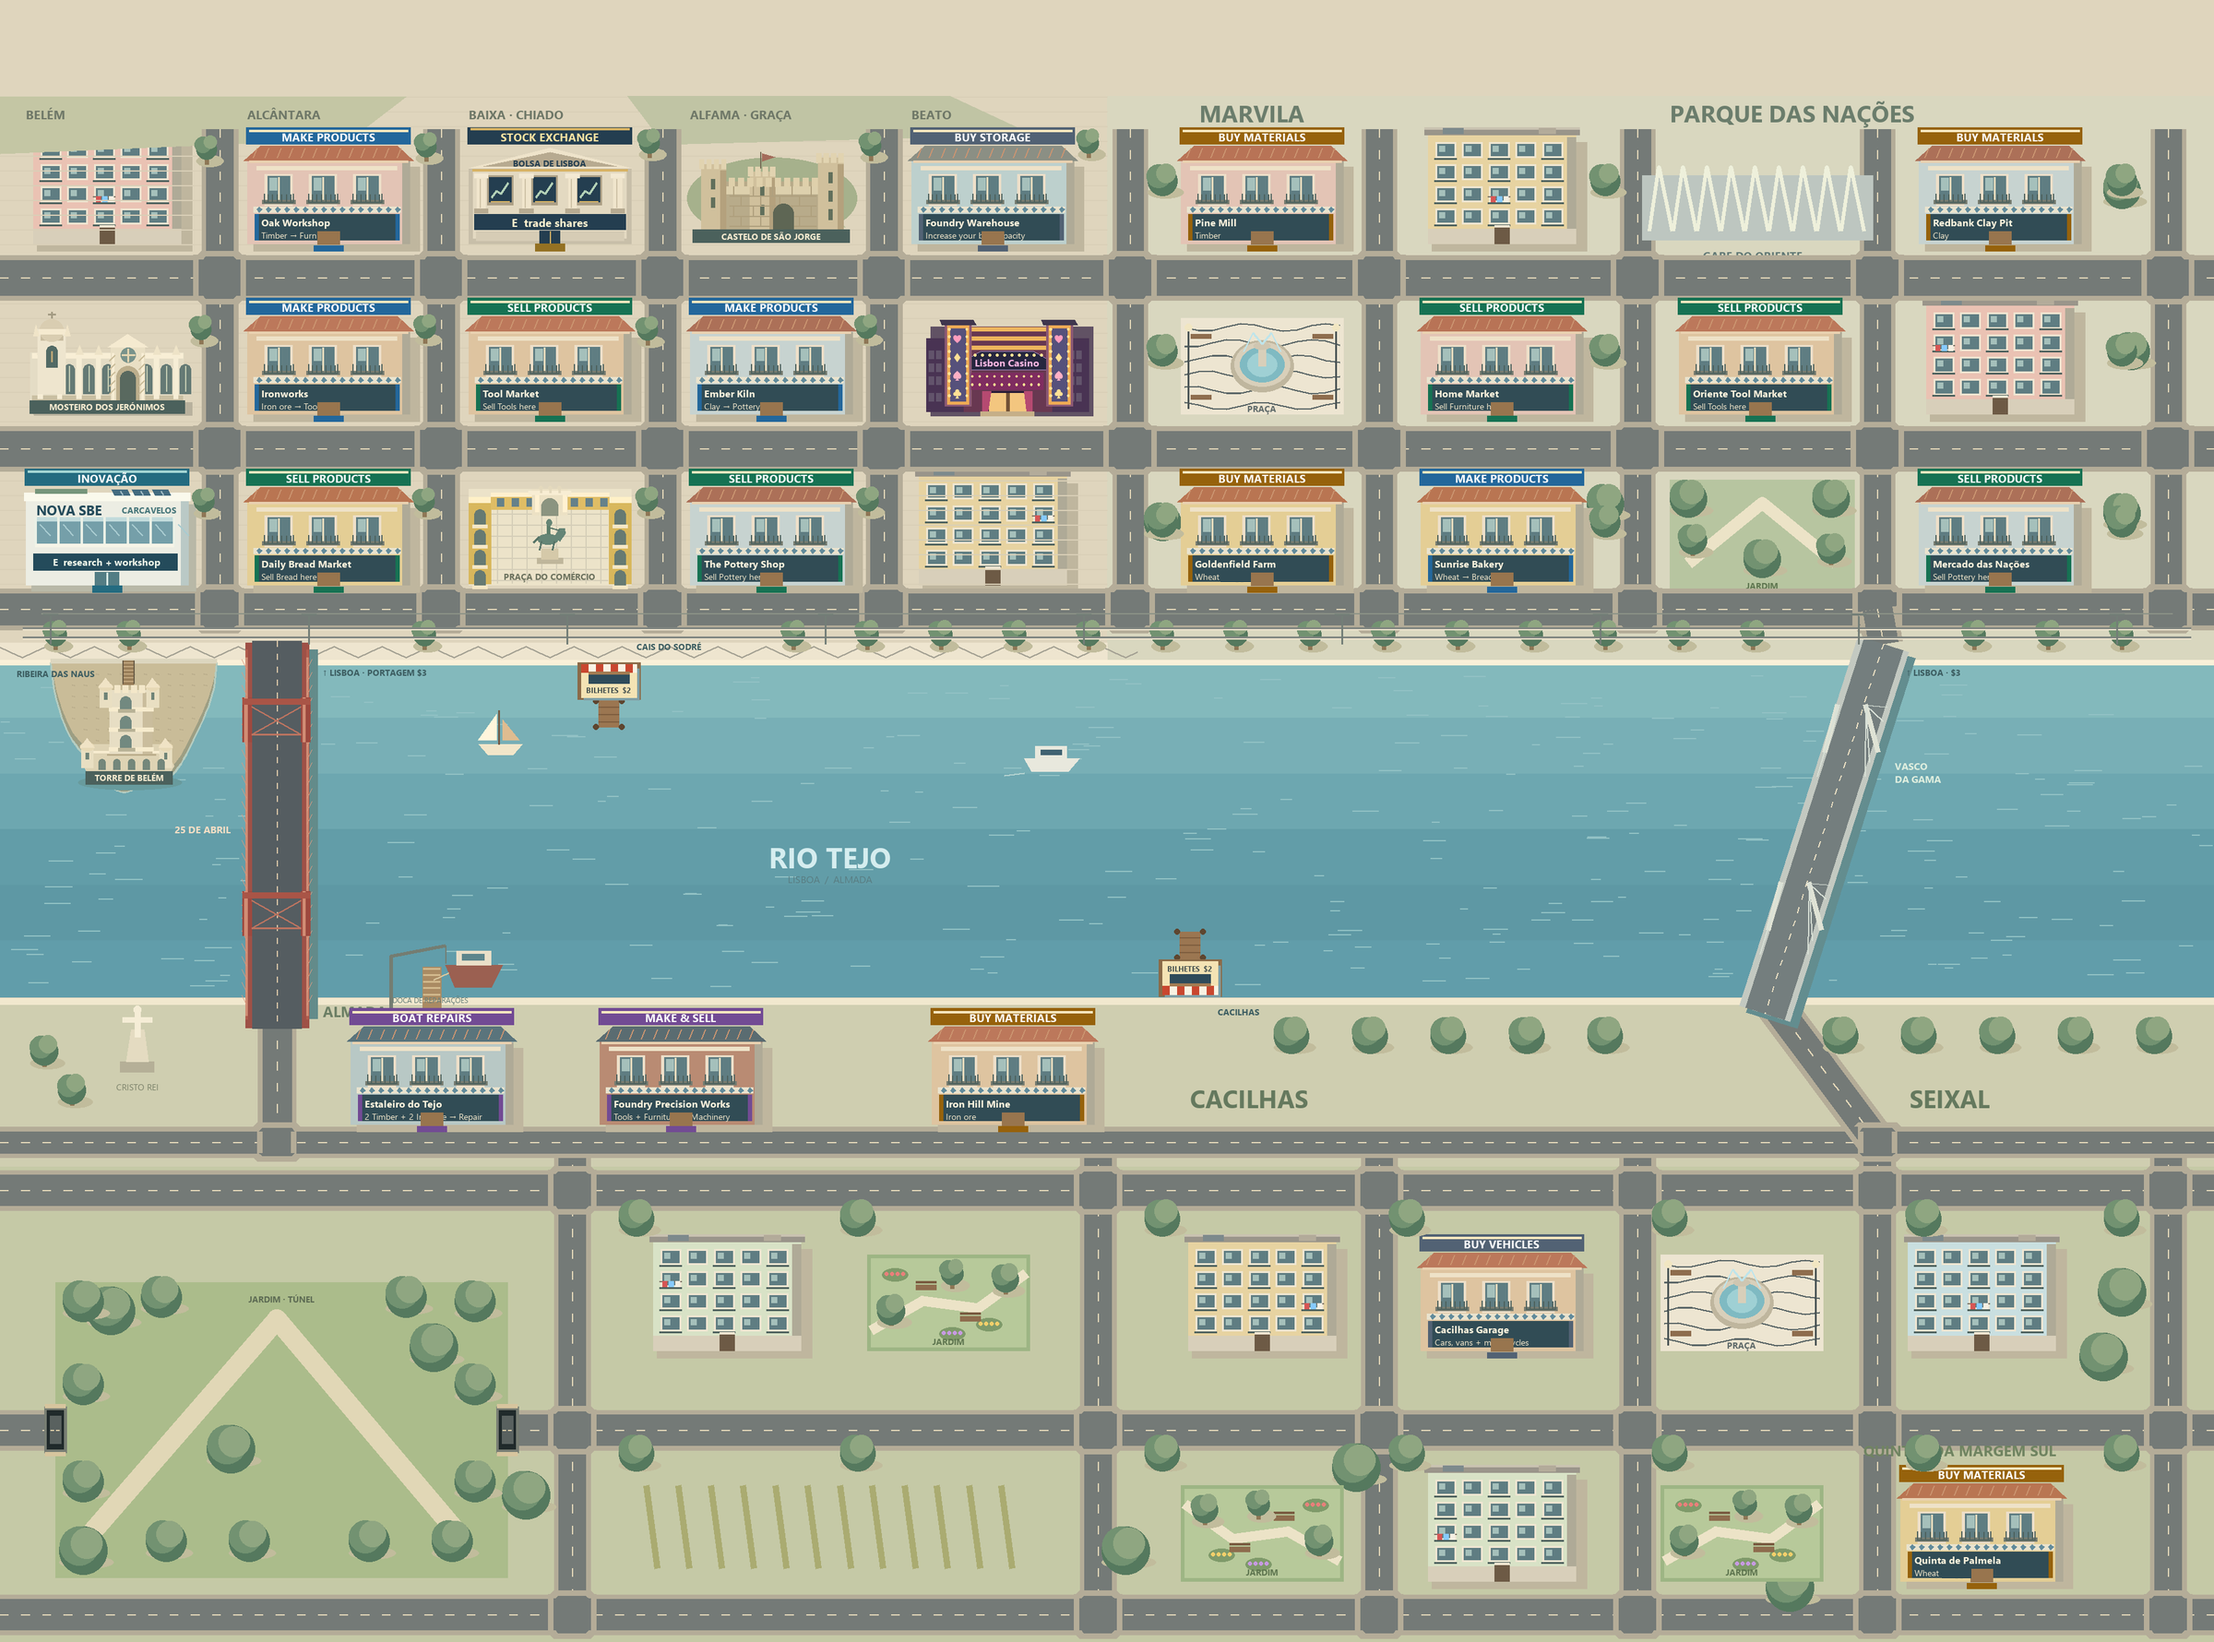
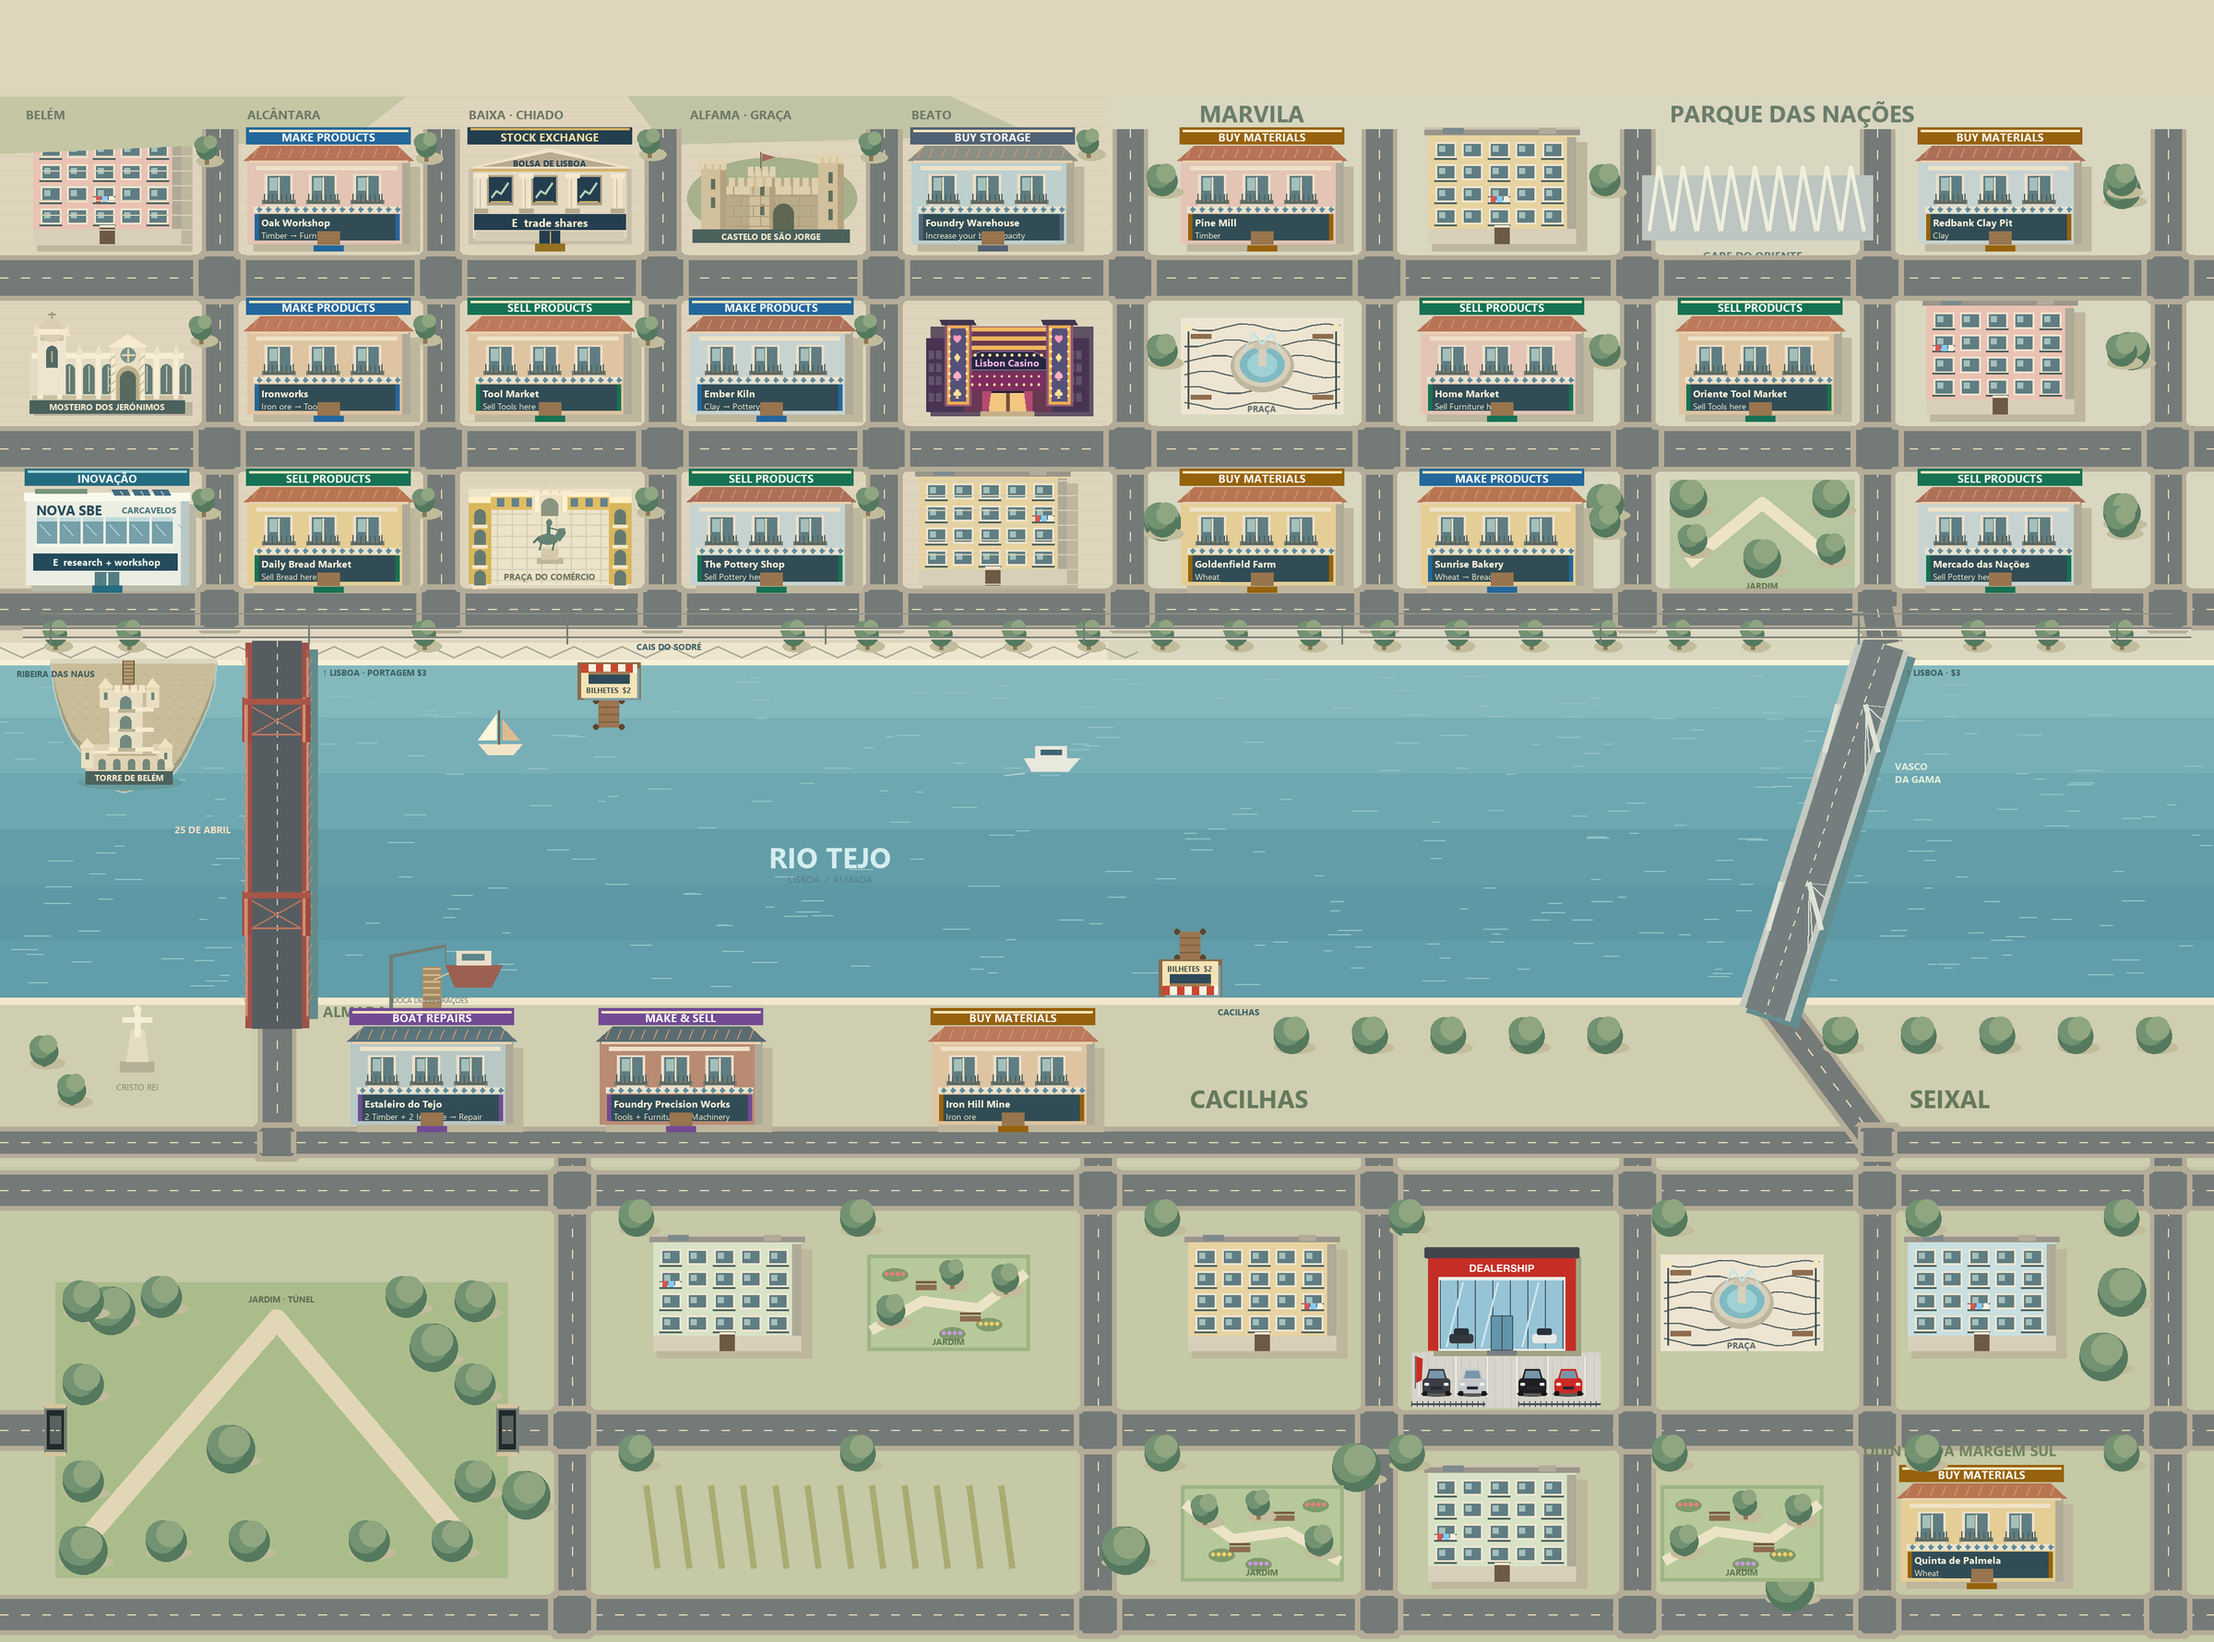
Cacilhas Dealership: a modern showroom with cars on the forecourt, enterable by car
- Cacilhas Garage is now Cacilhas Dealership. The map shows a glass showroom with a red
  frame and a DEALERSHIP sign, and four example cars parked on the forecourt down to the
  road, with an aisle to the door, a low fence and a flag (day and night versions).
- Drivers stay on the road, so the dealership's door reaches across the forecourt: on the
  road lane in front of it, E opens the dealership. Walkers still use the door.
- The Basics slide walks along the road and up the aisle to the new building.

Changed region(s): [[0.625, 0.7416, 0.7188, 0.8652]]

diff --git a/tests/test_buildings.py b/tests/test_buildings.py
@@ -208,7 +208,7 @@ def test_basics_can_be_replayed_from_the_start_menu_and_every_slide_exists(monke
 def test_closed_buildings_cannot_be_entered_and_are_not_destinations(monkeypatch):
     from browser_game import CLOSED_SITES, OPEN_SITES, street_event
     assert CLOSED_SITES == {"Motorworks Garage", "Armazém do Seixal", "Pastéis de Belém"}
-    assert [site.name for site in OPEN_SITES if site.role == "GARAGE"] == ["Cacilhas Garage"]
+    assert [site.name for site in OPEN_SITES if site.role == "GARAGE"] == ["Cacilhas Dealership"]
     assert [site.name for site in OPEN_SITES if site.role == "WAREHOUSE"] == ["Foundry Warehouse"]
     town = Town()
     garage = next(site for site in SITES if site.name == "Motorworks Garage")
@@ -217,7 +217,7 @@ def test_closed_buildings_cannot_be_entered_and_are_not_destinations(monkeypatch
     assert "apartments" in town.message and town.cash == 60
     app = new_app(monkeypatch)
     options = set(app.selectbox[0].options)
-    assert not CLOSED_SITES & options and {"Cacilhas Garage", "Foundry Warehouse"} <= options
+    assert not CLOSED_SITES & options and {"Cacilhas Dealership", "Foundry Warehouse"} <= options
 
 
 def test_warehouse_has_a_scene_and_the_farm_sells_only_wheat():
@@ -304,7 +304,7 @@ def test_building_hints_and_no_hints_once_every_route_is_learned():
     from browser_game import MONASTERY, next_move
     town = Town()
     assert "1 (red)" in next_move(town, "Foundry Casino")["text"]
-    assert "1–4" in next_move(town, "Cacilhas Garage")["text"]
+    assert "1–4" in next_move(town, "Cacilhas Dealership")["text"]
     assert "12 storage slots" in next_move(town, "Foundry Warehouse")["text"]
     assert "casino luck" in next_move(town, MONASTERY)["text"]
     town.total_sold = [1, 1, 1, 1]
@@ -395,7 +395,7 @@ def test_garage_sends_one_card_per_vehicle_with_its_status(monkeypatch):
     app = new_app(monkeypatch)
     town = app.session_state.town
     town.cash, town.owned_vehicles = 300, ["motorcycle"]
-    garage = next(site for site in SITES if site.name == "Cacilhas Garage")
+    garage = next(site for site in SITES if site.name == "Cacilhas Dealership")
     town.x, town.y = entrance(garage)
     app.session_state.inside = garage.name
     app.run()
@@ -405,3 +405,19 @@ def test_garage_sends_one_card_per_vehicle_with_its_status(monkeypatch):
     assert [card["affordable"] for card in cards] == [True, True, False, False]
     assert cards[1]["trunk"] == 48 and cards[1]["cargo"] == 60
     assert streamlit_interior(app)["keys"] == [["1–4", "Choose a vehicle"], ["escape", "Leave"]]
+
+
+def test_drivers_enter_the_dealership_from_the_road_in_front():
+    from browser_game import building_at, street_event
+    dealer = next(site for site in SITES if site.name == "Cacilhas Dealership")
+    door_x, _ = dealer.door
+    driver = Town()
+    driver.vehicle = "car"
+    driver.x, driver.y = door_x + 20, 1550  # On the road lane in front of the forecourt
+    assert building_at(driver) == "Cacilhas Dealership"
+    assert street_event(driver, {"dx": 0, "dy": 0, "seconds": 0, "action": "interact"}) == "Cacilhas Dealership"
+    driver.x = door_x + 90  # Further along the road: not in front of it any more
+    assert building_at(driver) is None
+    walker = Town()
+    walker.x, walker.y = door_x, 1550  # On foot, use the door itself
+    assert building_at(walker) is None

diff --git a/browser_game.py b/browser_game.py
@@ -104,7 +104,8 @@ STREET_LIFE = street_life()
 # ----- Buildings: what is at the door, which illustrated scene to show and what the vendor says -----
 
 MONASTERY = "Mosteiro dos Jerónimos"
-# Closed to keep the game simple: the only garage is in Cacilhas (so the first vehicle needs a ferry
+DRIVE_IN = 110  # How far below its door a driver can still enter the dealership (forecourt + road lane)
+# Closed to keep the game simple: the only car dealership is in Cacilhas (so the first vehicle needs a ferry
 # ride), one warehouse is enough, and the eggs / pastéis side chain is gone. The engine keeps them for
 # old saves; on the map their plots show apartment blocks.
 CLOSED_SITES = frozenset({"Motorworks Garage", "Armazém do Seixal", "Pastéis de Belém"})
@@ -126,6 +127,13 @@ def building_at(town):
     site = town.nearby()
     if site:
         return None if site.name in CLOSED_SITES else site.name
+    if town.vehicle:
+        # Drivers stay on the road, so the dealership's door reaches across its forecourt to the
+        # road in front of it.
+        for dealer in OPEN_SITES:
+            door_x, door_y = dealer.door
+            if dealer.role == "GARAGE" and abs(town.x - door_x) <= 60 and door_y < town.y <= door_y + DRIVE_IN:
+                return dealer.name
     left, _, right, bottom = LANDMARKS[0].bounds
     if math.hypot(town.x-(left+right)/2, town.y-(bottom+16)) <= 40:
         return MONASTERY

diff --git a/tests/test_browser_game.py b/tests/test_browser_game.py
@@ -72,7 +72,7 @@ def test_browser_trade_loop_rejection_restart_and_session_isolation(tmp_path, mo
     choose_place(app, "Daily Bread Market")
     click(app, "Sell carried goods")
     assert app.metric[0].value == "$100"
-    choose_place(app, "Cacilhas Garage")  # The only garage is across the Tejo
+    choose_place(app, "Cacilhas Dealership")  # The only garage is across the Tejo
     click(app, "Buy Motorcycle · $120 · +6 slots")
     assert app.metric[0].value == "$100"
     assert app.metric[1].value == "0 / 12"
@@ -80,7 +80,7 @@ def test_browser_trade_loop_rejection_restart_and_session_isolation(tmp_path, mo
     reloaded = AppTest.from_file("../streamlit_app.py", default_timeout=15).run()
     assert reloaded.metric[0].value == "$100"
     assert reloaded.session_state.town.elapsed == pytest.approx(15)
-    assert reloaded.session_state.town.nearby().name == "Cacilhas Garage"
+    assert reloaded.session_state.town.nearby().name == "Cacilhas Dealership"
     monkeypatch.delenv("FOUNDRY_LOCAL_DB")
     separate = AppTest.from_file("../streamlit_app.py", default_timeout=15).run()
     assert separate.metric[0].value == "$60"

diff --git a/streamlit_app.py b/streamlit_app.py
@@ -613,7 +613,7 @@ TUTORIAL = (
      "Bring the products to a green **SELL PRODUCTS** market and press **E** to sell everything you carry. Bread "
      "made from $4 wheat sells for $14. Repeat with bigger batches to grow faster."),
     ("Getting around", "garage.webp",
-     "The only **BUY VEHICLES** garage is in Cacilhas, across the Tejo: take the ferry ($2) from Cais do Sodré "
+     "The only car **DEALERSHIP** is in Cacilhas, across the Tejo: take the ferry ($2) from Cais do Sodré "
      "to get there. Vehicles are faster and carry more, and by car the bridges charge a $3 toll toward Lisboa. "
      "Pick a **Destination** above the map to see the route, and press **Esc** to leave any building."),
 )

diff --git a/tests/test_vehicle_ownership.py b/tests/test_vehicle_ownership.py
@@ -140,7 +140,7 @@ def test_garage_free_collection_and_green_bet_controls(monkeypatch):
     app = AppTest.from_file("../streamlit_app.py", default_timeout=15).run()
     town = app.session_state.town
     town.cash = 1000
-    garage = next(site for site in SITES if site.name == "Cacilhas Garage")  # The only open garage
+    garage = next(site for site in SITES if site.name == "Cacilhas Dealership")  # The only open garage
     town.x, town.y = entrance(garage)
     app.session_state.inside = garage.name
     app.run()

diff --git a/README.md b/README.md
@@ -57,7 +57,7 @@ Street movement and camera tracking render immediately in the browser. Movement 
 
 ## Keep local progress
 
-Vehicles use the same side-view skins in the garage selection and on the street. All four player vehicles drive 30% slower than before, on roads and off-road. Press **V** or **Leave vehicle** below the map to park your vehicle and walk; on a street, **V** or **Bring back vehicle** gets you back in. Owned rides remain available at the garage through **Drive · Free**, including after restoring a local save. Empty excess cargo and finish reserved orders before switching to your smaller walking bag. Leave bridges before dismounting.
+Vehicles use the same side-view skins in the dealership and on the street. All four player vehicles drive 30% slower than before, on roads and off-road. Press **V** or **Leave vehicle** below the map to park your vehicle and walk; on a street, **V** or **Bring back vehicle** gets you back in. Owned rides remain available at the garage through **Drive · Free**, including after restoring a local save. Empty excess cargo and finish reserved orders before switching to your smaller walking bag. Leave bridges before dismounting.
 
 Run a private instance bound to loopback:
 
@@ -119,7 +119,7 @@ The tests need no network, accounts or secrets.
 
 - Guest games reset on reload or when the server restarts. Players with cloud saves can sign in again to resume.
 - The soundtrack from the desktop version is not in the browser version. The exchange and research centre use plain controls, as they had no illustrated scene on desktop.
-- To keep the town simple, the only garage is Cacilhas Garage (your first vehicle needs a ferry ride), Foundry Warehouse is the only warehouse, and eggs and Pastéis de Belém were removed. The engine keeps these buildings for older saves; on the map their plots show apartment blocks and they cannot be entered.
+- To keep the town simple, the only car dealership is Cacilhas Dealership (your first vehicle needs a ferry ride), Foundry Warehouse is the only warehouse, and eggs and Pastéis de Belém were removed. The engine keeps these buildings for older saves; on the map their plots show apartment blocks and they cannot be entered.
 - One local save slot per `FOUNDRY_LOCAL_DB` path, meant for one player.
 - Contracts, delivery routes and business ownership were taken out of the menus to keep the game simple. Their rules (`contracts.py`, `logistics.py`, `businesses.py`) remain in the engine, with their tests, because older saves still store their fields.
 
